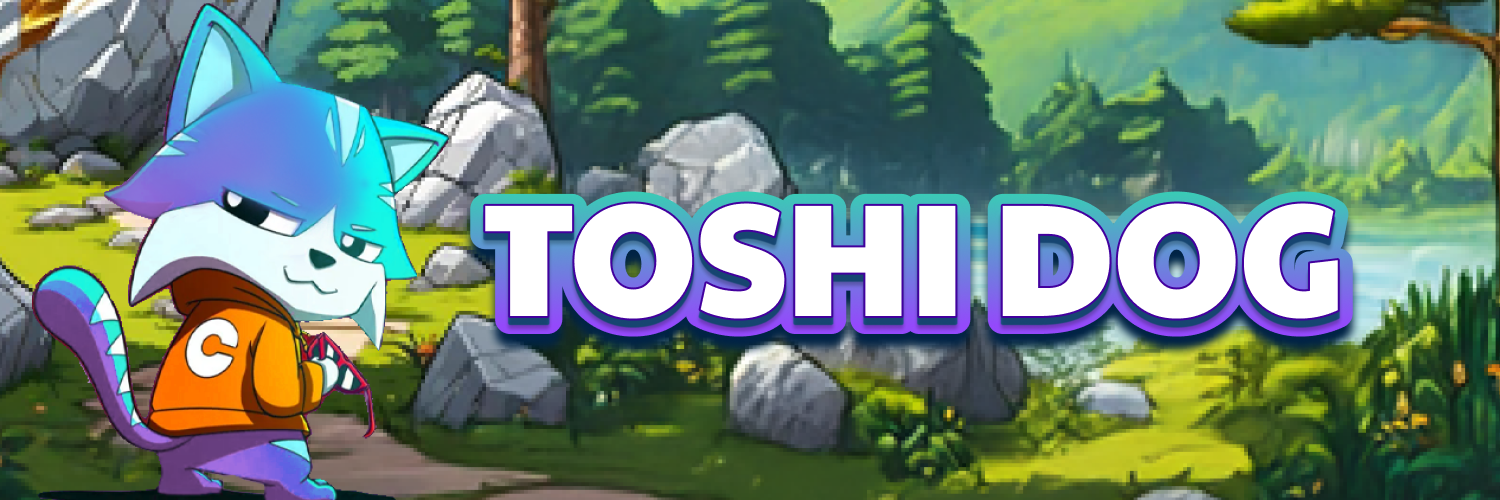
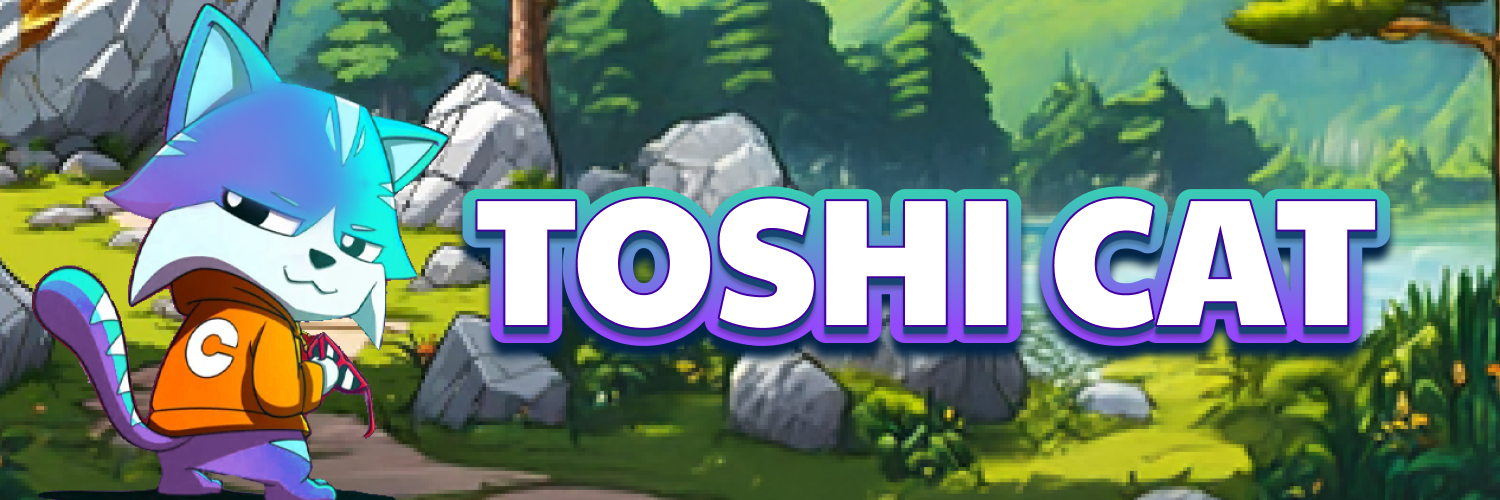
fds

Changed region(s): [[0.3067, 0.36, 0.9507, 0.75]]

diff --git a/index.html b/index.html
@@ -5,7 +5,7 @@
 <head>
 	<meta http-equiv="Content-Type" content="text/html; charset=UTF-8">
 
-	<title>Toshi Dog</title>
+	<title>Toshi Cat</title>
 	<meta name="viewport" content="width=device-width, initial-scale=1">
 	<meta name="robots" content="max-image-preview:large">
 	<style>
@@ -13,7 +13,7 @@
 			contain-intrinsic-size: 3000px 1500px
 		}
 	</style>
-	<title>Toshi Dog</title>
+	<title>Toshi Cat</title>
 	<link rel="alternate" type="application/rss+xml" title="Japanese Pepe » Feed"
 		href="https://japanesepepe.xyz/index.php/feed/">
 	<link rel="alternate" type="application/rss+xml" title="Japanese Pepe » Comments Feed"
@@ -1346,7 +1346,7 @@
 								<div class="elementor-social-icons-wrapper elementor-grid">
 									<span class="elementor-grid-item">
 										<a class="elementor-icon elementor-social-icon elementor-social-icon-x-twitter elementor-animation-grow elementor-repeater-item-688e275"
-											href="#X" target="_blank">
+											href="https://x.com/Toshicatonsol" target="_blank">
 											<span class="elementor-screen-only">X-twitter</span>
 											<svg class="e-font-icon-svg e-fab-x-twitter" viewBox="0 0 512 512"
 												xmlns="http://www.w3.org/2000/svg">
@@ -1700,7 +1700,7 @@
 							<div class="elementor-widget-container">
 								<div class="elementor-social-icons-wrapper elementor-grid">
 									<span class="elementor-grid-item">
-										<a href="#X" class="elementor-icon elementor-social-icon elementor-social-icon-x-twitter elementor-animation-grow elementor-repeater-item-688e275"
+										<a href="https://x.com/Toshicatonsol" class="elementor-icon elementor-social-icon elementor-social-icon-x-twitter elementor-animation-grow elementor-repeater-item-688e275"
 											target="_blank">
 											<span class="elementor-screen-only">X-twitter</span>
 											<svg class="e-font-icon-svg e-fab-x-twitter" viewBox="0 0 512 512"
@@ -1742,7 +1742,7 @@
 				<div class="elementor-element elementor-element-c8ead2c elementor-widget elementor-widget-heading"
 					data-id="c8ead2c" data-element_type="widget" data-widget_type="heading.default">
 					<div class="elementor-widget-container">
-						<h2 class="elementor-heading-title elementor-size-default">Toshi Dog 2025.</h2>
+						<h2 class="elementor-heading-title elementor-size-default">Toshi Cat 2025.</h2>
 					</div>
 				</div>
 			</div>
